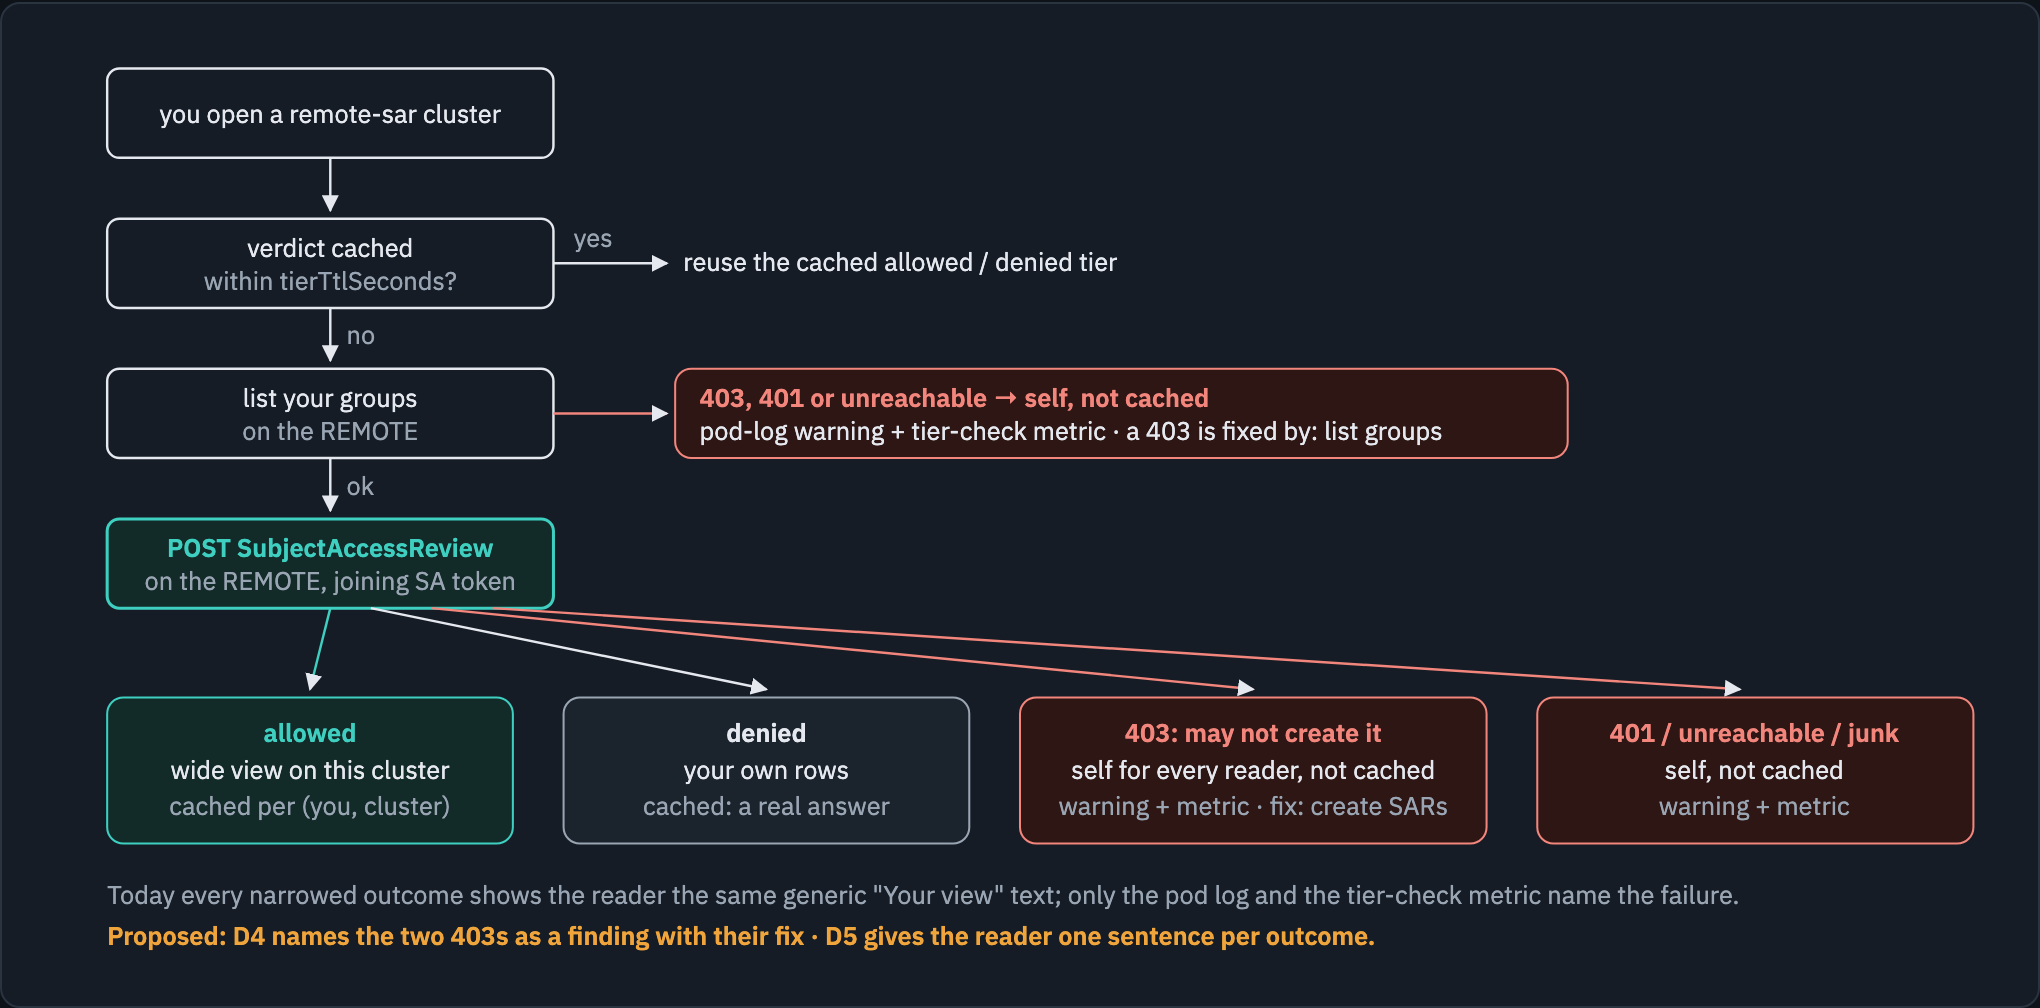
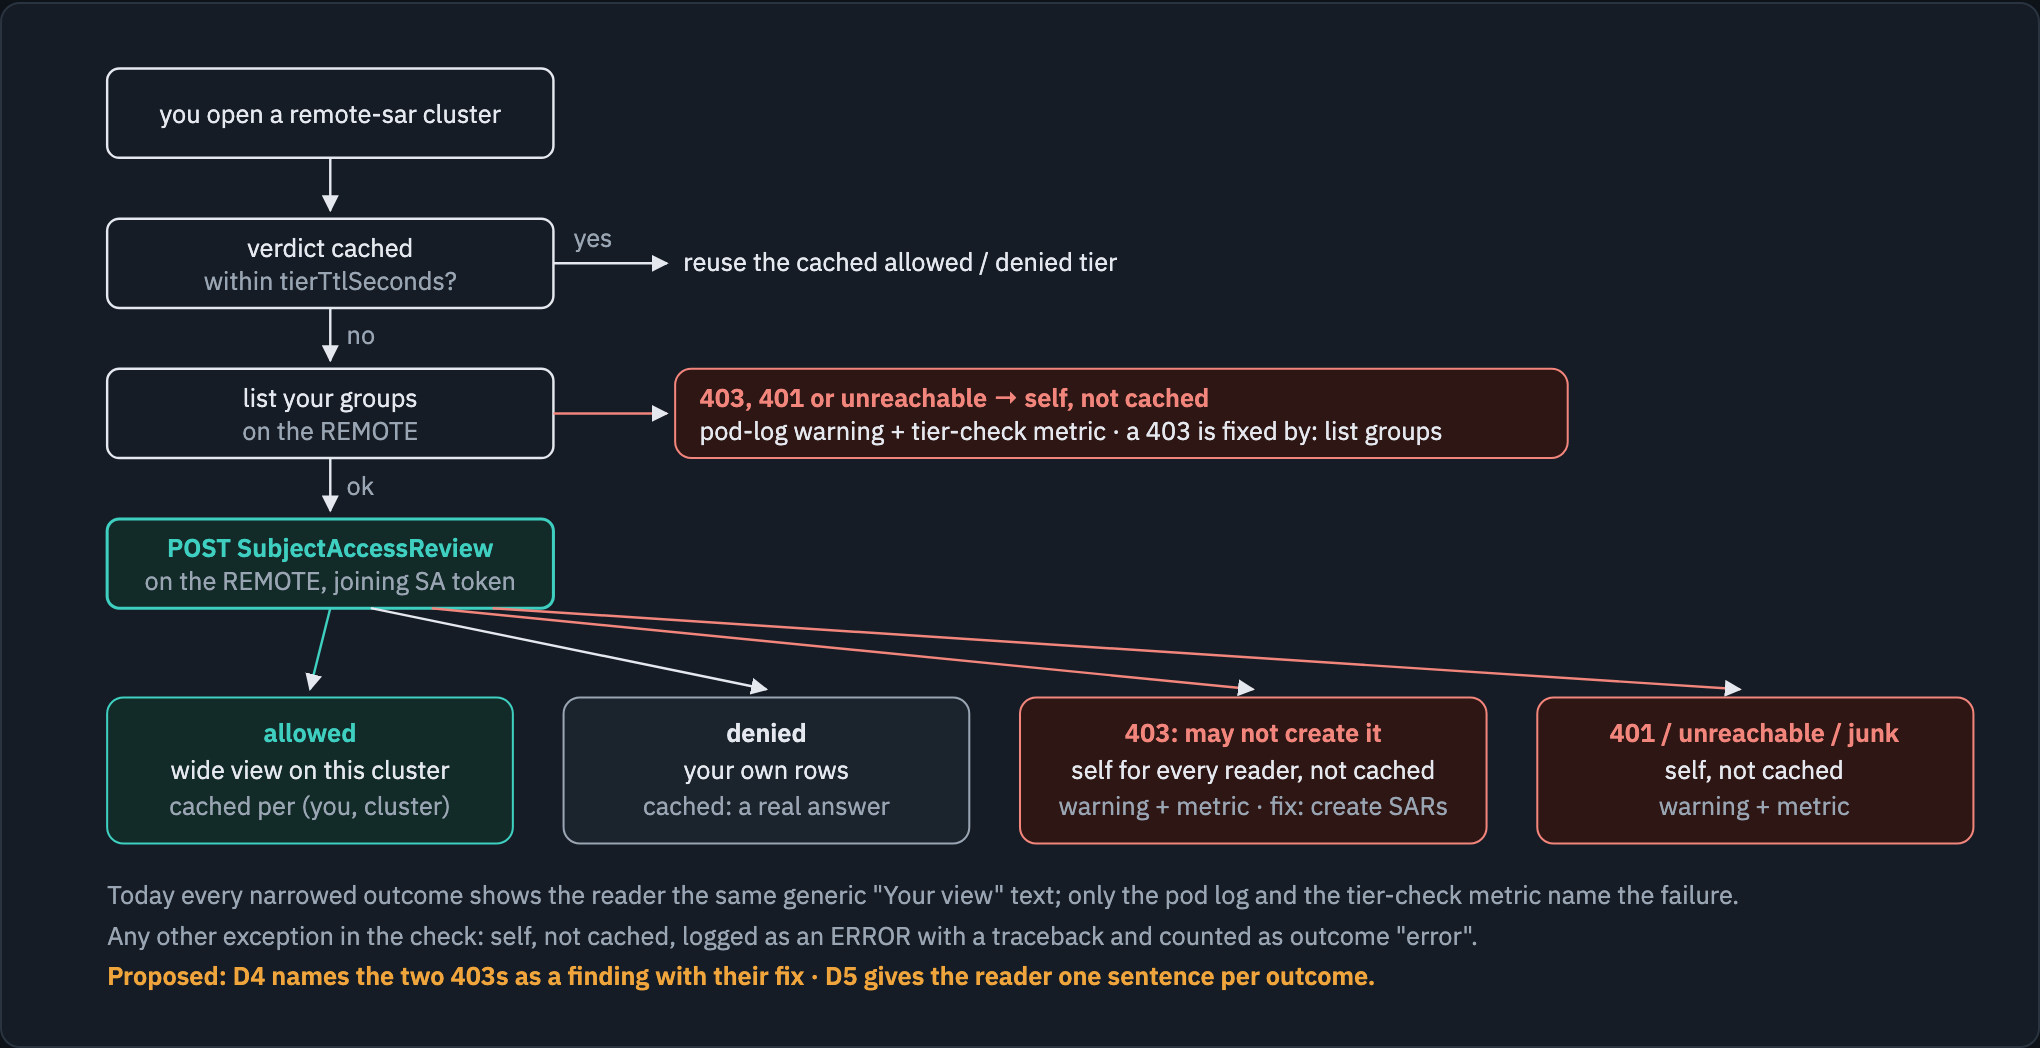
docs(design): Figure 2 draws the unexpected-exception path its twin already had
Confirmation pass on cf51bef (Grok): nine of ten accepted fixes confirmed; one new
defect — the twin gained "any other exception -> self, not cached, ERROR + outcome
error" (kube.py TierResolver._resolve_and_cache, log.exception + _note("error")) and the
drawn figure did not. Accepted on the fact; Grok's snippet rejected (it merged the
proposal line into a 150-character line wider than the figure): a separate muted footer
line instead, with the alt text and aria-label saying the same.

Also the clause Grok noted and did not raise: Figure 3's aria-label said D8 "confirms a
Rejoin credential is cluster admin", the overclaim C8 corrected in the text; it now
says D8 asks #322's cluster-admin question.

diff --git a/docs/diagrams/remote-cluster-access/source.html b/docs/diagrams/remote-cluster-access/source.html
@@ -204,7 +204,7 @@ a { color: var(--remote); }
     <h2>How <code>remote-sar</code> decides today, including when it cannot</h2>
     <figure>
       <div class="fig-scroll">
-        <svg viewBox="0 0 980 470" role="img" aria-label="remote-sar today: a cached verdict, or list the reader's groups on the remote and create a SubjectAccessReview there with the joining token. Allowed gives the wide view and denied gives self, both cached. A failure at either remote call gives self, not cached, with a pod-log warning and the tier-check metric. The named finding and the per-outcome sentence are proposals D4 and D5.">
+        <svg viewBox="0 0 980 490" role="img" aria-label="remote-sar today: a cached verdict, or list the reader's groups on the remote and create a SubjectAccessReview there with the joining token. Allowed gives the wide view and denied gives self, both cached. A 401, 403 or unreachable answer at either remote call gives self, not cached, with a pod-log warning and the tier-check metric; any other exception gives self, not cached, with an ERROR and the metric outcome error. The named finding and the per-outcome sentence are proposals D4 and D5.">
           <defs><marker id="ah2" viewBox="0 0 10 10" refX="9" refY="5" markerWidth="7" markerHeight="7" orient="auto-start-reverse"><path d="M0,0 L10,5 L0,10 z" fill="currentColor"/></marker></defs>
           <g font-family="IBM Plex Sans, sans-serif" font-size="12.5" fill="currentColor">
             <g stroke="currentColor" fill="none" stroke-width="1.2">
@@ -256,7 +256,8 @@ a { color: var(--remote); }
             <text x="852" y="370" text-anchor="middle">self, not cached</text>
             <text x="852" y="388" text-anchor="middle" fill="var(--muted)">warning + metric</text>
             <text x="40" y="432" fill="var(--muted)">Today every narrowed outcome shows the reader the same generic "Your view" text; only the pod log and the tier-check metric name the failure.</text>
-            <text x="40" y="452" fill="var(--host)" font-weight="600">Proposed: D4 names the two 403s as a finding with their fix · D5 gives the reader one sentence per outcome.</text>
+            <text x="40" y="452" fill="var(--muted)">Any other exception in the check: self, not cached, logged as an ERROR with a traceback and counted as outcome "error".</text>
+            <text x="40" y="472" fill="var(--host)" font-weight="600">Proposed: D4 names the two 403s as a finding with their fix · D5 gives the reader one sentence per outcome.</text>
           </g>
         </svg>
       </div>
@@ -334,7 +335,7 @@ a { color: var(--remote); }
       fleet account does it, automatically. Rejoin (#316) is the same exchange started by a person.</p>
     <figure>
       <div class="fig-scroll">
-        <svg viewBox="0 0 980 870" role="img" aria-label="How a cluster is joined. On the host, saTokenLookup starts automatically: it stops first if cluster-Secret writes are off, then the leader or sole replica reads the fleet account's password from one host Secret, and a password the target already refused is not sent again. Rejoin, proposed, starts with a person who must pass clusterAdminSar on the host, update clusterrolebindings, and types their own username and password. On the remote, the dashboard logs in as that account, a proposed SelfSubjectAccessReview confirms a Rejoin credential is cluster admin there, it reads the poller's token Secret by name in group-sync-operator, and tries once to revoke the login's own token. Back on the host it writes gsd-cluster-shared-rnd. Once joined, the poller's token authenticates every later call; its rights on the remote are the ClusterRole group-sync-dashboard-cluster-poller, and once D1 lands, under remote-sar the same token asks the remote about each reader.">
+        <svg viewBox="0 0 980 870" role="img" aria-label="How a cluster is joined. On the host, saTokenLookup starts automatically: it stops first if cluster-Secret writes are off, then the leader or sole replica reads the fleet account's password from one host Secret, and a password the target already refused is not sent again. Rejoin, proposed, starts with a person who must pass clusterAdminSar on the host, update clusterrolebindings, and types their own username and password. On the remote, the dashboard logs in as that account, a proposed SelfSubjectAccessReview asks #322's cluster-admin question of a Rejoin credential there, it reads the poller's token Secret by name in group-sync-operator, and tries once to revoke the login's own token. Back on the host it writes gsd-cluster-shared-rnd. Once joined, the poller's token authenticates every later call; its rights on the remote are the ClusterRole group-sync-dashboard-cluster-poller, and once D1 lands, under remote-sar the same token asks the remote about each reader.">
           <defs><marker id="ah3" viewBox="0 0 10 10" refX="9" refY="5" markerWidth="7" markerHeight="7" orient="auto-start-reverse"><path d="M0,0 L10,5 L0,10 z" fill="currentColor"/></marker></defs>
           <!-- lanes -->
           <g font-family="IBM Plex Mono, monospace" font-size="13" font-weight="600">

diff --git a/docs/DESIGN_remote_cluster_access.md b/docs/DESIGN_remote_cluster_access.md
@@ -76,7 +76,7 @@ today it can take only the first or the third column, because a Secret-declared 
 <picture>
   <source media="(prefers-color-scheme: dark)" srcset="diagrams/remote-cluster-access/remote-sar-decision-flow.dark.png">
   <source media="(prefers-color-scheme: light)" srcset="diagrams/remote-cluster-access/remote-sar-decision-flow.light.png">
-  <img alt="remote-sar today: a cached verdict, or list the reader's groups on the remote and create a SubjectAccessReview there with the joining token; allowed gives the wide view and denied gives self, both cached; a failure at either remote call gives self, not cached, with a pod-log warning and the tier-check metric" src="diagrams/remote-cluster-access/remote-sar-decision-flow.light.png">
+  <img alt="remote-sar today: a cached verdict, or list the reader's groups on the remote and create a SubjectAccessReview there with the joining token; allowed gives the wide view and denied gives self, both cached; a 401, 403 or unreachable answer at either remote call gives self, not cached, with a pod-log warning and the tier-check metric; any other exception gives self, not cached, with an ERROR and the metric outcome error" src="diagrams/remote-cluster-access/remote-sar-decision-flow.light.png">
 </picture>
 <!-- markdownlint-enable MD033 -->
 
